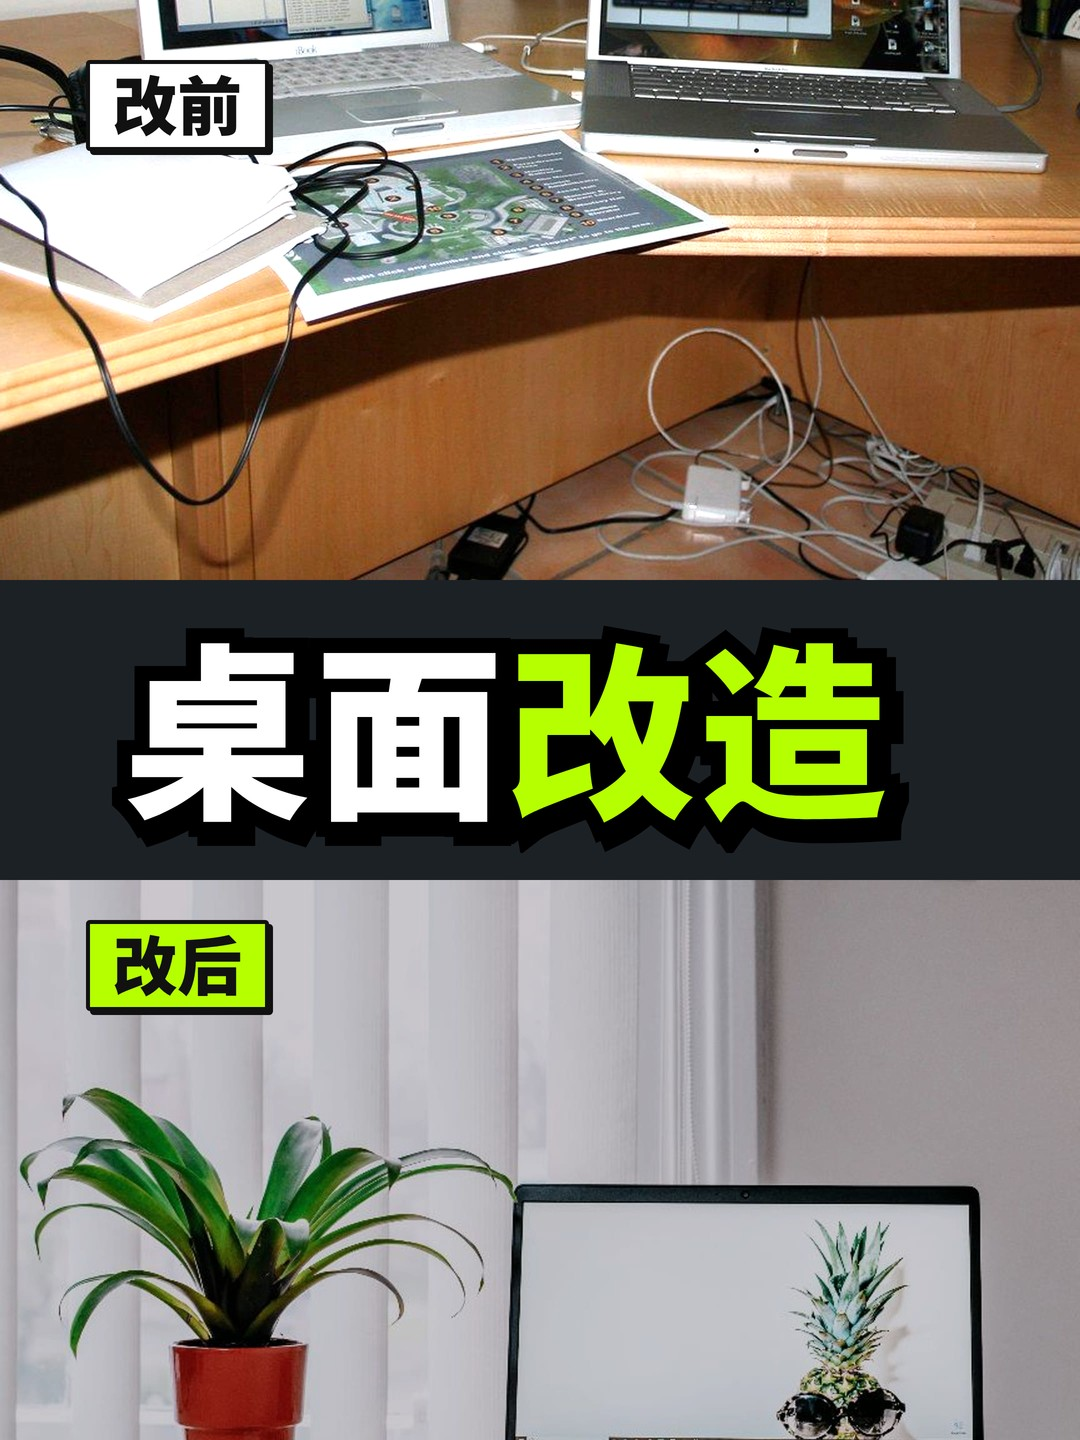
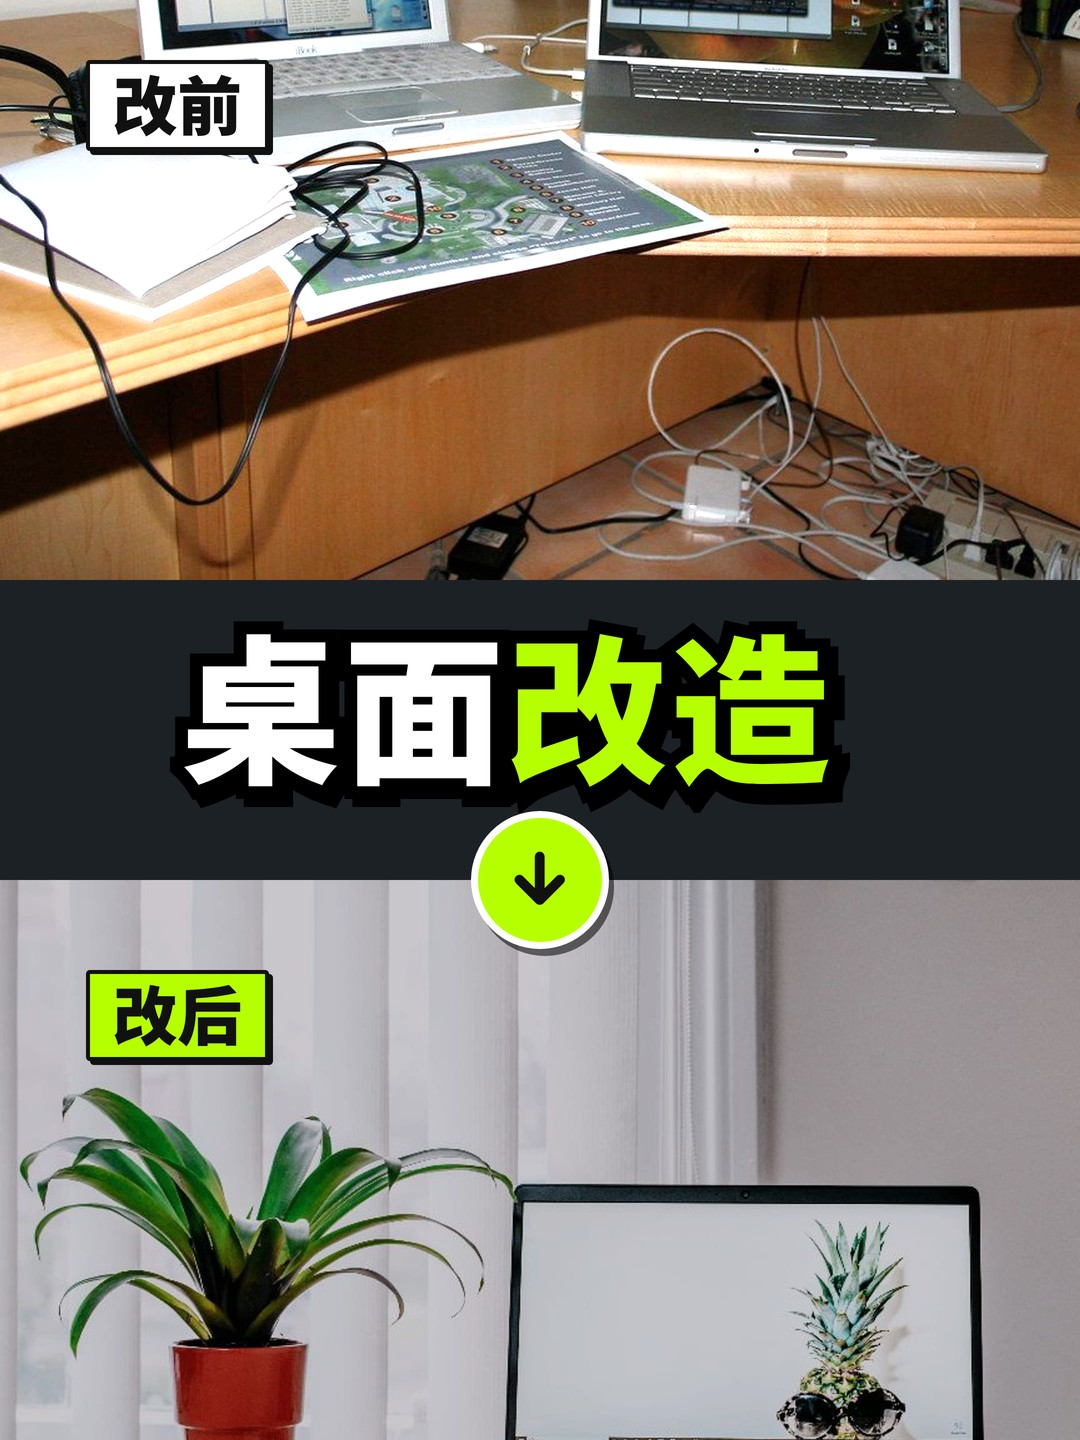
fix(genres): fit comparison labels to their panels and add the portrait arrow
Versus and before-after labels had a fixed size, so two legal 8-character
labels overlapped and ran off the cover. Both labels now share the largest
size that fits each one inside its own visible panel and clear of app UI.
Portrait before-after gains the downward arrow its description promised,
with the after label moved below it.

Changed region(s): [[0.0917, 0.4062, 0.8556, 0.6875], [0.0611, 0.625, 0.275, 0.75]]

diff --git a/src/genres/split.ts b/src/genres/split.ts
@@ -113,14 +113,16 @@ const BEFORE_AFTER: Readonly<Record<FamilyName, SplitGeometry>> = {
     portrait: {
         split: 'rows',
         band: { x: 0, y: 820, width: 1080, height: 300 },
-        textArea: { x: 86, y: 850, width: 842, height: 240 },
+        textArea: { x: 86, y: 845, width: 842, height: 205 },
         panels: [
             { x: 0, y: 0, width: 1080, height: 820 },
             { x: 0, y: 1120, width: 1080, height: 800 },
         ],
+        // 箭头骑在标题带下沿，朝下指向「后」。
+        badge: { x: 540, y: 1120, size: 124 },
         labels: [
             { x: 86, y: 300, anchor: 'start' },
-            { x: 86, y: 1160, anchor: 'start' },
+            { x: 86, y: 1210, anchor: 'start' },
         ],
         labelPx: 64,
     },
@@ -177,6 +179,100 @@ function geometryFor(layout: CoverLayout, table: Record<FamilyName, SplitGeometr
             { ...geometry.labels[1], x: geometry.labels[1].x * sx, y: geometry.labels[1].y * sy },
         ],
         labelPx: Math.round(geometry.labelPx * s),
+    };
+}
+
+// 标签的字宽（em）：汉字和全角字一个字宽，其余按 0.62（窄粗体的数字和字母更窄，按宽的算），
+// 再加左右内边距 0.72em，描边和硬投影共 0.21em。高度按 1.6em 估（行高、内边距、描边、倾斜）。
+const CHIP_PAD_EM = 0.93;
+const CHIP_HEIGHT_EM = 1.6;
+const WIDE_CHAR =
+    /[\p{Script=Han}\p{Script=Hiragana}\p{Script=Katakana}\u3000-\u303f\uff00-\uffef]/u;
+
+export function chipWidthEm(text: string): number {
+    return (
+        Array.from(text).reduce((sum, char) => sum + (WIDE_CHAR.test(char) ? 1 : 0.62), 0) +
+        CHIP_PAD_EM
+    );
+}
+
+/** 标签在这个字号下大约占的框：居中的以锚点为中，靠左的从锚点起 */
+function chipRect(anchor: ChipAnchor, text: string, fontPx: number): Rect {
+    const width = chipWidthEm(text) * fontPx;
+    return {
+        x: anchor.anchor === 'center' ? anchor.x - width / 2 : anchor.x,
+        y: anchor.y,
+        width,
+        height: CHIP_HEIGHT_EM * fontPx,
+    };
+}
+
+/**
+ * 两个标签用同一个字号：各自放进自己面板里平台看得见的那一截，躲开平台界面（抖音右侧按钮列），
+ * 取两者里小的，最大是版式给的字号。长标签缩小，不会互相压住或被裁掉。
+ */
+export function labelFontPx(
+    geometry: SplitGeometry,
+    layout: CoverLayout,
+    labels: readonly [string, string],
+): number {
+    const visible = layout.visibleArea ?? {
+        x: 0,
+        y: 0,
+        width: layout.width,
+        height: layout.height,
+    };
+    const covered = layout.coveredAreas ?? [];
+    const fits = geometry.labels.map((anchor, index) => {
+        const panel = geometry.panels[index] as Rect;
+        const top = anchor.y;
+        const bottom = anchor.y + CHIP_HEIGHT_EM * geometry.labelPx;
+        let left = Math.max(panel.x, visible.x);
+        let right = Math.min(panel.x + panel.width, visible.x + visible.width);
+        for (const rect of covered) {
+            if (rect.y >= bottom || rect.y + rect.height <= top) {
+                continue;
+            }
+            if (rect.x >= anchor.x) {
+                right = Math.min(right, rect.x);
+            } else if (rect.x + rect.width <= anchor.x) {
+                left = Math.max(left, rect.x + rect.width);
+            }
+        }
+        const room =
+            anchor.anchor === 'center'
+                ? 2 * Math.min(anchor.x - left, right - anchor.x)
+                : right - anchor.x;
+        // 留一成余量给倾斜和字形宽度的误差。
+        return (room * 0.9) / chipWidthEm(labels[index] as string);
+    });
+    return Math.floor(Math.min(geometry.labelPx, ...fits));
+}
+
+/** 测试用：每族的分屏几何和标签框 */
+export function splitLabelRects(
+    kind: 'versus' | 'before-after',
+    layout: CoverLayout,
+    labels: readonly [string, string],
+): { rects: Rect[]; panels: readonly Rect[]; badge?: Rect; fontPx: number } {
+    const geometry = geometryFor(layout, kind === 'versus' ? VERSUS : BEFORE_AFTER);
+    const fontPx = labelFontPx(geometry, layout, labels);
+    return {
+        rects: geometry.labels.map((anchor, index) =>
+            chipRect(anchor, labels[index] as string, fontPx),
+        ),
+        panels: geometry.panels,
+        ...(geometry.badge === undefined
+            ? {}
+            : {
+                  badge: {
+                      x: geometry.badge.x - geometry.badge.size / 2,
+                      y: geometry.badge.y - geometry.badge.size / 2,
+                      width: geometry.badge.size,
+                      height: geometry.badge.size,
+                  },
+              }),
+        fontPx,
     };
 }
 
@@ -364,11 +460,12 @@ function splitTemplate(request: SplitRequest, kind: 'versus' | 'before-after'): 
         ...layout,
         textArea: { ...geometryFor(layout, table).textArea },
     });
-    const labelLayer = (geometry: SplitGeometry): Layers => {
+    const labelLayer = (geometry: SplitGeometry, layout: CoverLayout): Layers => {
         if (request.labels === undefined) {
             return { css: '', html: '' };
         }
         const labels = request.labels;
+        const fontPx = labelFontPx(geometry, layout, labels);
         const specs = geometry.labels.map((anchor, index): ChipSpec => {
             const second = index === 1;
             return {
@@ -376,7 +473,7 @@ function splitTemplate(request: SplitRequest, kind: 'versus' | 'before-after'): 
                 x: anchor.x,
                 y: anchor.y,
                 anchor: anchor.anchor,
-                fontPx: geometry.labelPx,
+                fontPx,
                 background: kind === 'versus' || second ? scheme.type.accent : '#FFFFFF',
                 ink: scheme.type.accentInk ?? '#111111',
                 edge: '#111111',
@@ -405,7 +502,7 @@ function splitTemplate(request: SplitRequest, kind: 'versus' | 'before-after'): 
                 band,
             );
             over = joinLayers(
-                labelLayer(geometry),
+                labelLayer(geometry, layout),
                 badgeLayer(
                     geometry,
                     kind === 'versus' ? 'vs' : 'arrow',

diff --git a/src/genres/genres.test.ts b/src/genres/genres.test.ts
@@ -32,6 +32,7 @@ import {
     parseGenre,
 } from './index.ts';
 import { fontKit, type GenrePhoto } from './page.ts';
+import { splitLabelRects } from './split.ts';
 
 function inside(inner: Rect, outer: Rect): boolean {
     return (
@@ -197,6 +198,39 @@ describe('cover type geometry', () => {
                         }
                     }
                 }
+            }
+        }
+    });
+
+    it('shrinks the longest labels to fit their own panel, clear of the app UI and the headline', () => {
+        const longest: [string, string] = ['一二三四五六七八', '¥1,500,00'];
+        for (const kind of ['versus', 'before-after'] as const) {
+            for (const family of FAMILY_NAMES) {
+                const framed = framedLayout(family);
+                const template = templateFor(kind, ['/a.png', '/b.png']);
+                const layout = { ...(template.layoutFor?.(framed) ?? framed) };
+                const { rects, panels, badge } = splitLabelRects(kind, layout, longest);
+                expect(badge, `${kind} ${family} has a seam badge`).toBeDefined();
+                expect(overlaps(badge as Rect, layout.textArea), `${kind} ${family} badge`).toBe(
+                    false,
+                );
+                const visible = layout.visibleArea as Rect;
+                rects.forEach((rect, index) => {
+                    const panel = panels[index] as Rect;
+                    const where = `${kind} ${family} label ${index}`;
+                    expect(rect.x, where).toBeGreaterThanOrEqual(Math.max(panel.x, visible.x));
+                    expect(rect.x + rect.width, where).toBeLessThanOrEqual(
+                        Math.min(panel.x + panel.width, visible.x + visible.width),
+                    );
+                    expect(overlaps(rect, layout.textArea), where).toBe(false);
+                    expect(overlaps(rect, badge as Rect), where).toBe(false);
+                    for (const covered of layout.coveredAreas ?? []) {
+                        expect(overlaps(rect, covered), where).toBe(false);
+                    }
+                });
+                expect(overlaps(rects[0] as Rect, rects[1] as Rect), `${kind} ${family}`).toBe(
+                    false,
+                );
             }
         }
     });
